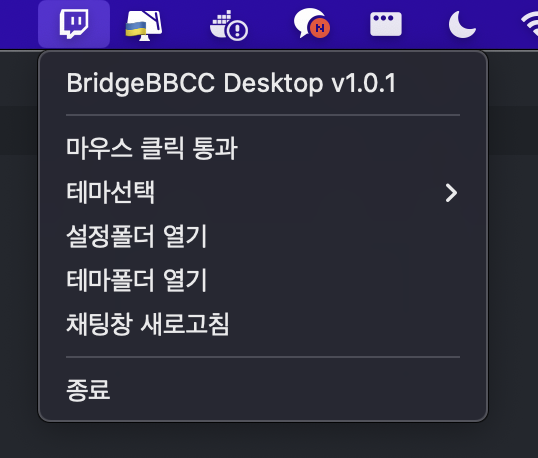
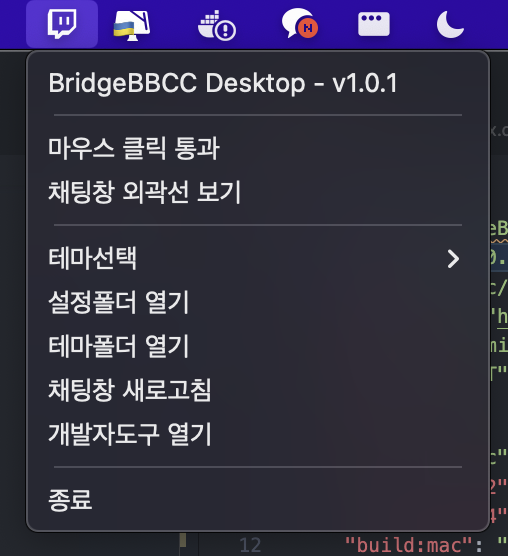
README.md 수정

Changed region(s): [[0.0, 0.0, 1.0, 1.0], [0.8268, 0.3974, 0.8563, 0.4585]]

diff --git a/src/constants.ts b/src/constants.ts
@@ -1,7 +1,7 @@
 import path from "path";
 
 export const title = "BridgeBBCC Desktop";
-export const version = "v1.0.1";
+export const version = "v1.0.2";
 export const logoImagePath = path.resolve(__dirname, "logo.png");
 
 export const BridgeBBCCRootDirPath = path.resolve(__dirname, "BridgeBBCC");

diff --git a/README.md b/README.md
@@ -19,18 +19,18 @@ $ npm install
 $ npm(or yarn) run build:mac
 ```
 
-## How to use
+## 주요 기능
 
-### 채팅창 외곽선 표시 기능
+### - 채팅창 외곽선 표시 기능
 
 채팅창 사이즈 및 위치 조절을 위해 아래 단축키를 누르면 채팅창 외곽선이 빨간선으로 표시됩니다.
 
 - Windows: Ctrl + Shift + Q
 - MacOS: Control + Shift + Q
 
-### 시스템 트레이 아이콘
+### - 시스템 트레이 아이콘
 
 BridgeBBCC 채팅창은 시스템 트레이 아이콘을 제공합니다.  
-"테마선택", "설정폴더 열기", "테마폴더 열기", "채팅창 새로고침" 메뉴를 포함합니다.
+"마우스 클릭 통과", "채팅창 외곽선 보기", "테마선택", "설정폴더 열기", "테마폴더 열기", "채팅창 새로고침", "개발자도구 열기" 메뉴를 포함합니다.
 
 ![readme_1.png](./readme/readme_1.png)
